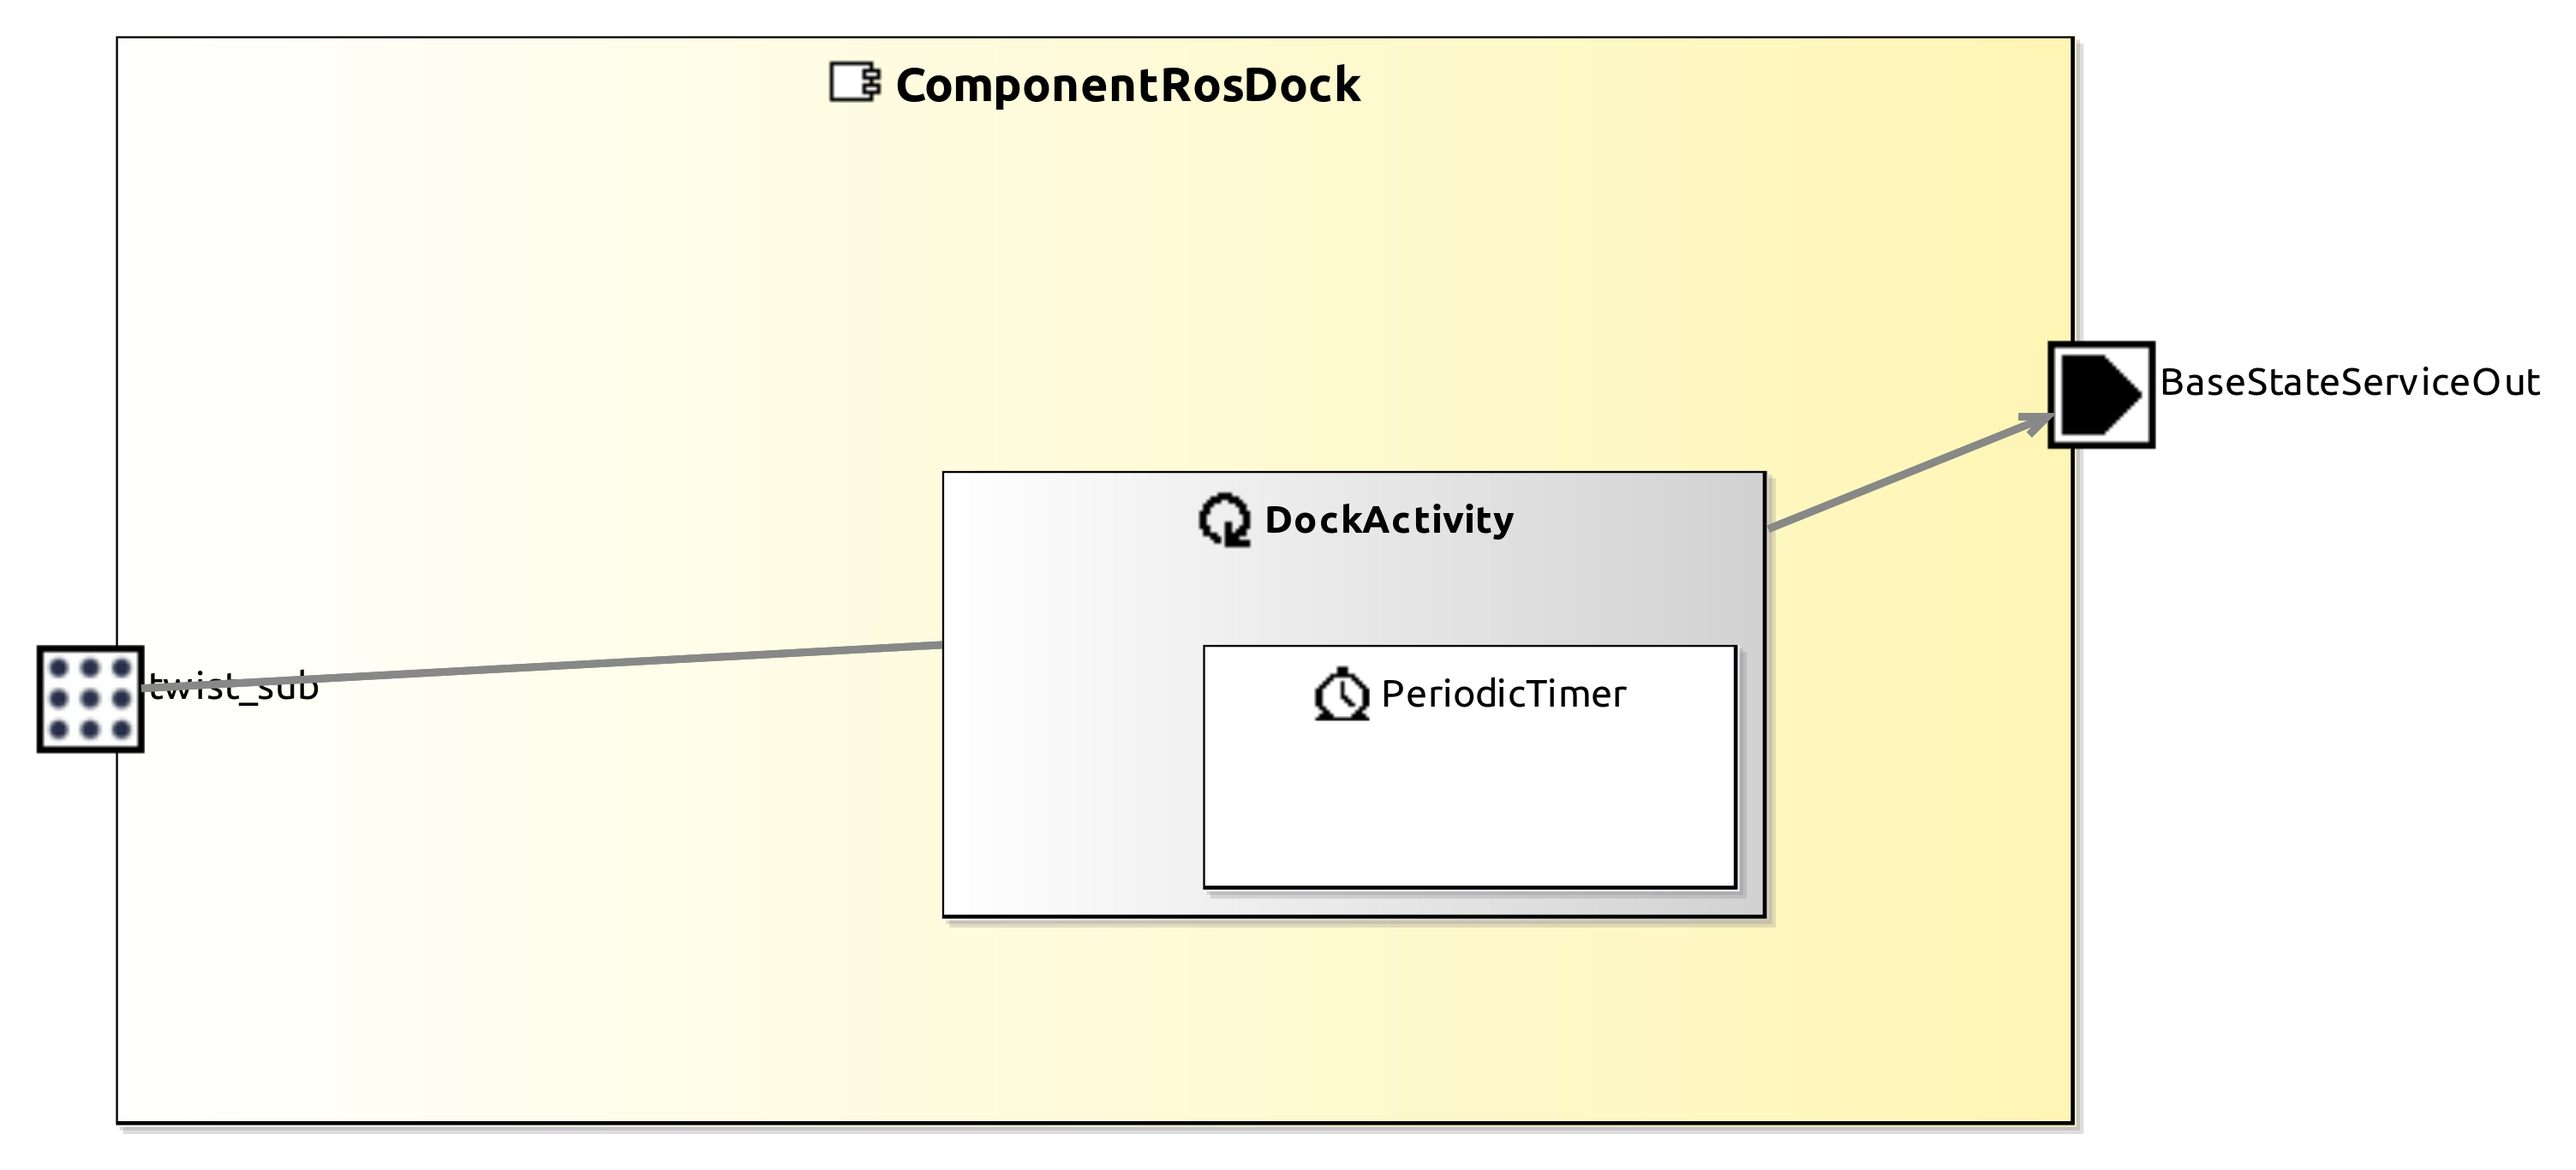
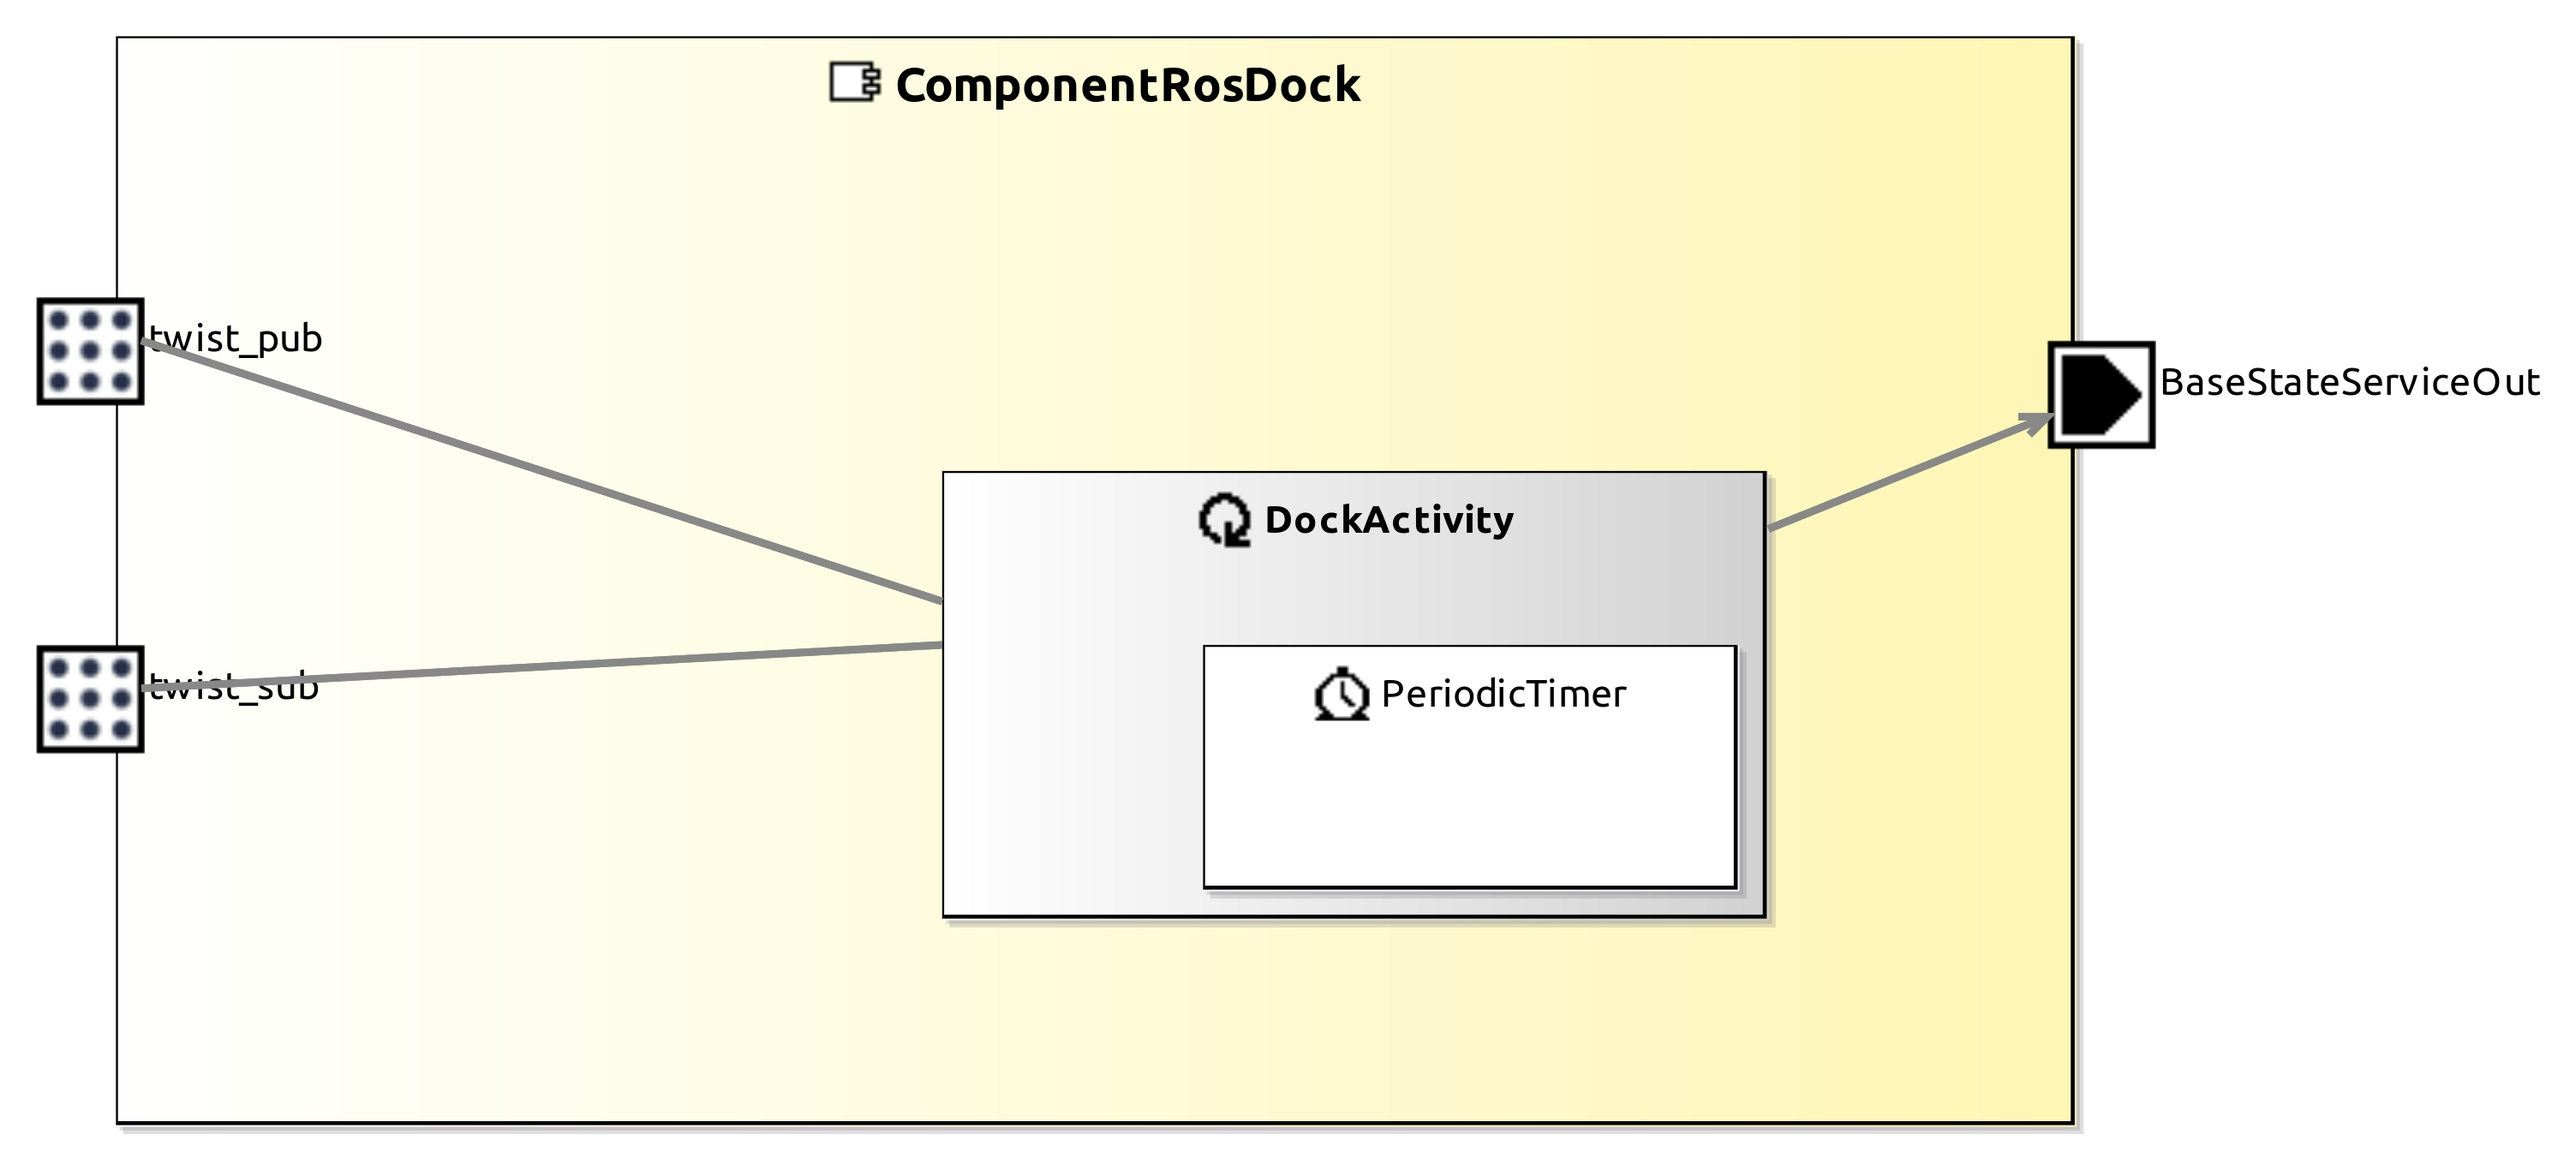
add publisher

diff --git a/ComponentRosDock/smartsoft/src/DockActivity.cc b/ComponentRosDock/smartsoft/src/DockActivity.cc
@@ -71,7 +71,13 @@ int DockActivity::on_execute()
 	// to get the incoming data, use this methods:
 	Smart::StatusCode status;
 
-	std::cout << "Hello from DockActivity " << std::endl;
+
+	geometry_msgs::Twist twist_msg;
+	twist_msg.linear.x = 1.0;
+
+	std::cout << "publishing twist " << std::endl;
+	COMP -> rosPorts -> twist_pub.publish(twist_msg);
+	//twist_pub.publish(twist);
 
 
 	// it is possible to return != 0 (e.g. when the task detects errors), then the outer loop breaks and the task stops

diff --git a/ComponentRosDock/ROS/src-gen/ComponentRosDockRosPortExtension.cc b/ComponentRosDock/ROS/src-gen/ComponentRosDockRosPortExtension.cc
@@ -44,6 +44,7 @@ void ComponentRosDockRosPortExtension::initialize(ComponentRosDock *component, i
 	
 	component->rosPorts = this;
 	
+	twist_pub = nh->advertise<geometry_msgs::Twist>("/base/twist_controller_seronet/command", 10);
 	twist_sub = nh->subscribe("/base/twist_controller/command", 10, &ComponentRosDockRosPortCallbacks::twist_sub_cb, callbacksPtr);
 }
 

diff --git a/ComponentRosDock/smartsoft/src-gen/ComponentRosDock.cc b/ComponentRosDock/smartsoft/src-gen/ComponentRosDock.cc
@@ -34,6 +34,7 @@ ComponentRosDock::ComponentRosDock()
 	baseStateServiceOut = NULL;
 	dockActivity = NULL;
 	dockActivityTrigger = NULL;
+	//twist_pub = NULL;
 	//twist_sub = NULL;
 	stateChangeHandler = NULL;
 	stateSlave = NULL;
